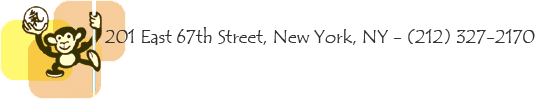
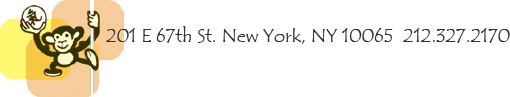
=css redesign

Changed region(s): [[0.0, 0.0, 1.0, 1.0], [0.0294, 0.4639, 0.0588, 0.4948]]

diff --git a/public/stylesheets/pages.css b/public/stylesheets/pages.css
@@ -1,10 +1,11 @@
-.show-e{
-	border: 1px solid red;
-}
+.red {border: 3px solid red;}
+.green {border: 3px solid green;}
+.blue {border: 3px solid blue;}
 
 /* ie png fix */
  img, div { behavior: url(/iepngfix/iepngfix.htc) }
 
+	ul {list-style: none !important;}
 * html
     {
     overflow-y: hidden;
@@ -16,7 +17,6 @@
     }
 
 body { 
-	background: #FFFFFF url('/images/Backgrounds/sun_zen.jpg') no-repeat scroll center top !important; 
 	color:#353535 !important;
 	font-family:Arial,Helvetica,sans-serif !important;
 	font-size:12px !important;
@@ -26,7 +26,12 @@ body {
 	padding:0 !important;
 }
 
- #menu { height: 1px; margin-top: 55px; width: 941px }
+#menu_bar_and_logo {
+	width: 100%;
+	height: 200px;
+}
+
+#menu { position: absolute; height: 38px; margin-top: 55px; margin-bottom: 0px; width: 941px }
  #menu li { display: inline; text-indent: -9999px;}
  #menu li a { float: left; width: 95px; height: 38px; padding-right: 17px !important; overflow: hidden; }
  #menu li a { background-image: url(/images/Backgrounds/menu.png); *background-image: url(/images/Backgrounds/menu_ie.gif); }
@@ -78,7 +83,18 @@ body {
  #menu.contact_us li#contact_us a { background-position: -686px -80px; width: 77px; }
 
 
+#page_body {
+	background: #FFFFFF url('/images/Backgrounds/sun_zen.jpg') no-repeat scroll center top !important; 
+	position: relative;
+	width: 1022px;
+	margin: 0 auto;
+}
 
+#filler_left {
+	float: left;
+	width: 100%;
+	background: #FFFFFF url('/images/Backgrounds/clean_zen_left.jpg') repeat-x center top !important; 
+}
 #top_content_page {
  	border: 1px solid #353535;
  	-moz-border-radius: 5px;
@@ -87,23 +103,34 @@ body {
 	height:330px;
 	padding:15px;
 	width:616px;
-	position: absolute;
-	top: 198px;
-	left: 550px;
-	_position: relative;
-	zoom: 1;
-	z-index: 999;
+	z-index: 4;
+	position: relative;
+	left: 358px;
 }
 
 #address_bar {
-  position: absolute;
-	left: 97px;
-	top: 360px;
   text-indent: -9999px;
 	width:573px;
 	height:93px;
  	background: url(/images/Backgrounds/address_bar.png) no-repeat;
+	position: relative;
+	left: 480px;
+	width:573px;
 }
+
+#lower_corner_box {
+ 	border: 1px solid #353535;
+ 	-moz-border-radius: 5px;
+	-webkit-border-radius: 5px;
+	background: #FDFCFA;
+	height: 168px;
+	width:308px;
+	z-index: 1;
+	position: relative;
+	top: -150px;
+	left: 70px;
+}
+
 
 h2 {
 	color:#FFFFFF !important;
@@ -129,18 +156,6 @@ h2 {
 	top:-1px;
 	z-index:2;
 }
-
-#lower_corner_box {
- 	border: 1px solid #353535;
- 	-moz-border-radius: 5px;
-	-webkit-border-radius: 5px;
-	background: #FDFCFA;
-	height: 168px;
-	width:308px;
-	margin-top: 362px;
-	margin-left: 44px;
-}
-
 
 
 #edit_page_box {
